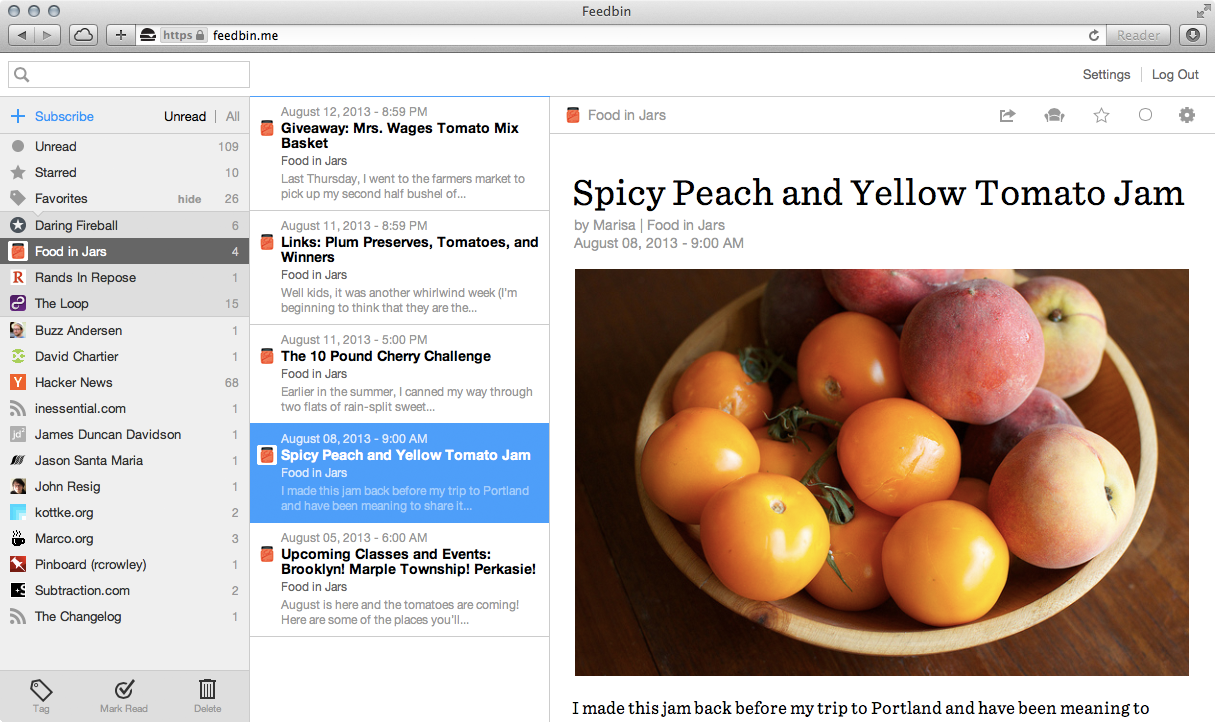
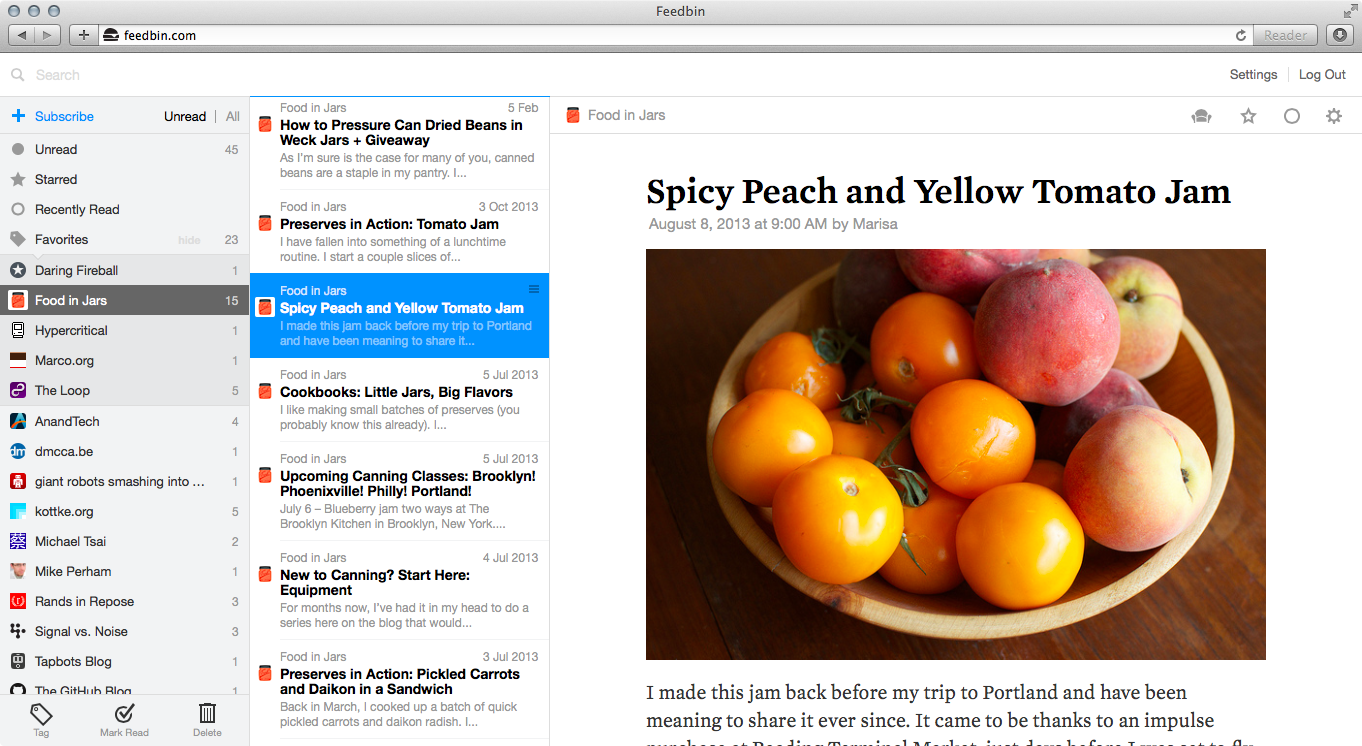
Updated main screenshot. Removed outdated screenshots section.

diff --git a/app/assets/stylesheets/_home.scss b/app/assets/stylesheets/_home.scss
@@ -363,6 +363,7 @@
 	.developers {
 		background-color: #FFF;
 		padding: 30px 0;
+		border-top: 1px solid #DDD;
 		.tagline-small {
 			text-align: left;
 			max-width: 100%;
